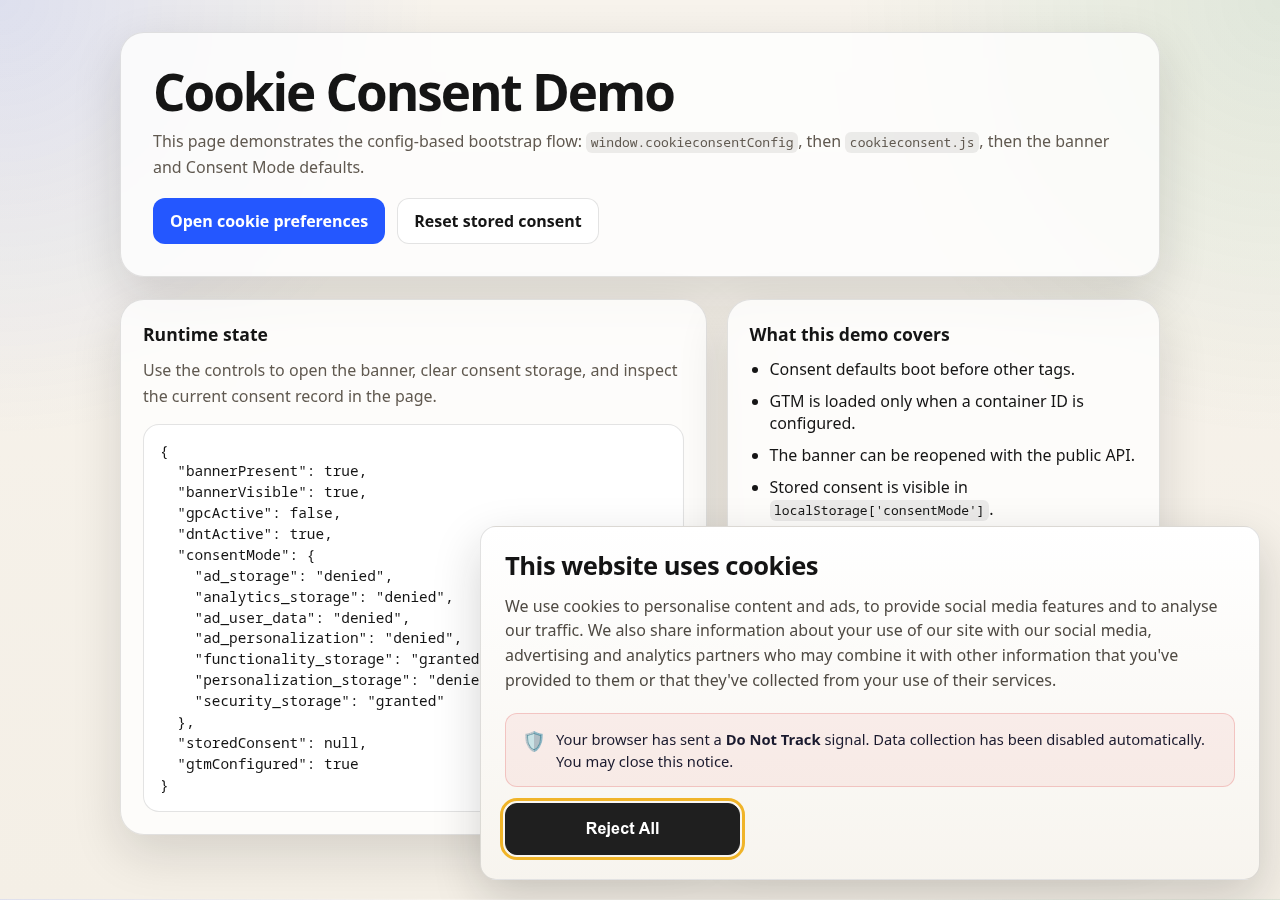
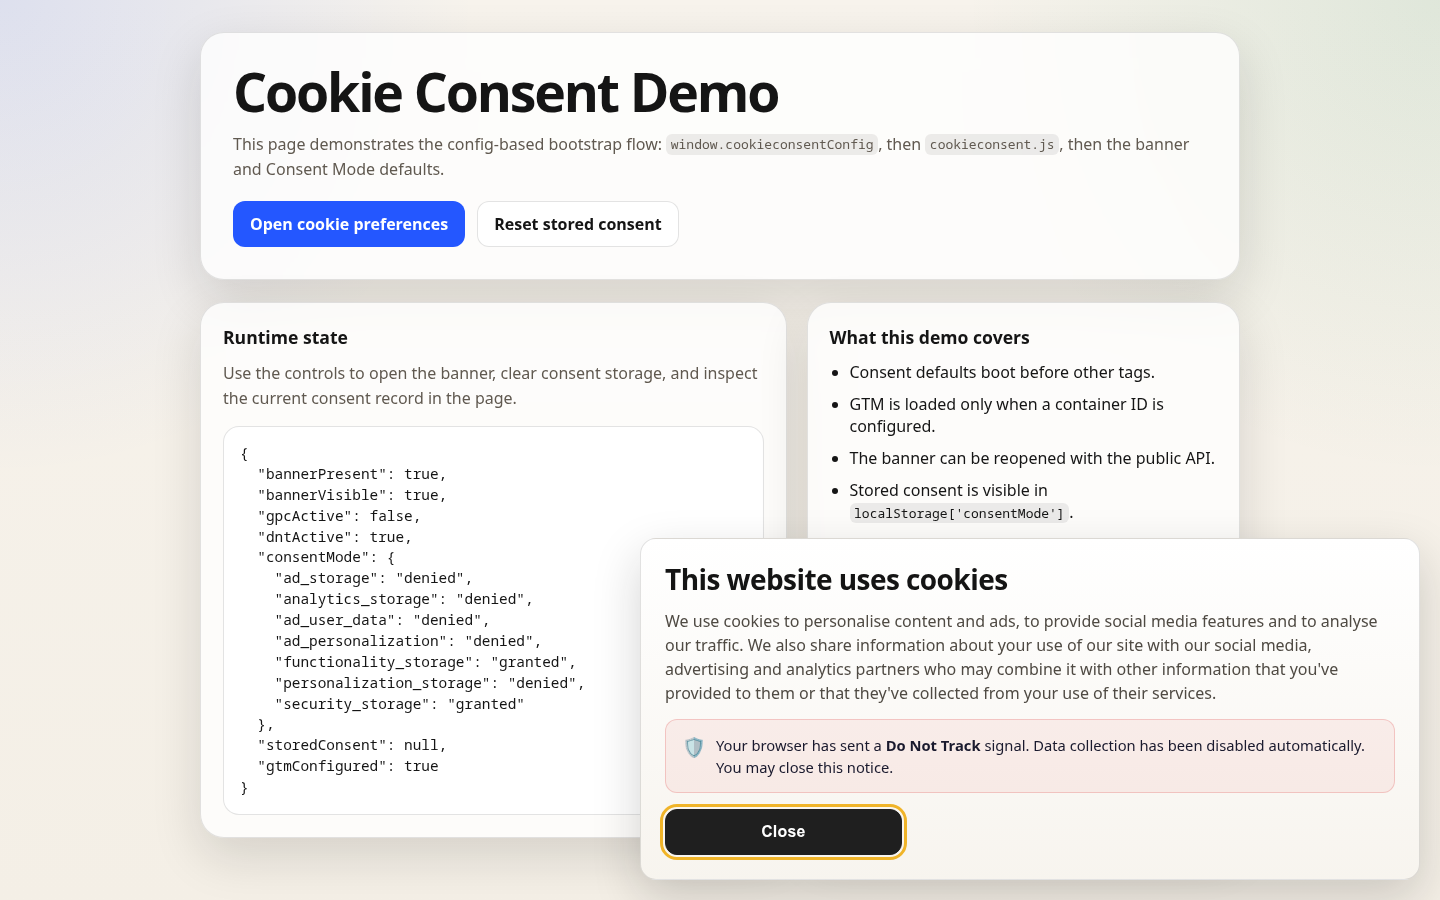
feat: reorder buttons to prefer Accept All, relabel as Close under GPC/DNT
- Reorder banner buttons: Accept All → Accept Selection → Reject All
- Focus Accept All on initial banner open (Close button in GPC/DNT mode)
- Relabel 'Reject All' button to 'Close' when GPC or DNT signal is active
- Update all tests (Playwright + runtime) for new focus and button behavior
- Regenerate README screenshots (sample.png, sample-gpc.png, sample-dnt.png, sample-mobile.png)
- Add scripts/screenshot.mjs for future screenshot regeneration

Changed region(s): [[0.0938, 0.0311, 1.0, 0.9956]]

diff --git a/cookieconsent.js b/cookieconsent.js
@@ -108,9 +108,9 @@ const COOKIE_CONSENT_BANNER_DOM = `
       <span>Your browser has sent a <strong>Do Not Track</strong> signal. Data collection has been disabled automatically. You may close this notice.</span>
     </div>
     <div class="cookie-consent-buttons" role="group" aria-label="Cookie consent actions">
-      <button id="cookie-consent-btn-reject-all" type="button" class="cookie-consent-button btn-grayscale">Reject All</button>
-      <button id="cookie-consent-btn-accept-some" type="button" class="cookie-consent-button btn-outline">Accept Selection</button>
       <button id="cookie-consent-btn-accept-all" type="button" class="cookie-consent-button btn-success">Accept All</button>
+      <button id="cookie-consent-btn-accept-some" type="button" class="cookie-consent-button btn-outline">Accept Selection</button>
+      <button id="cookie-consent-btn-reject-all" type="button" class="cookie-consent-button btn-grayscale">Reject All</button>
     </div>
   </div>
 `;
@@ -511,7 +511,10 @@ function applyPrivacySignalLock(noticeId) {
     input.setAttribute('data-privacy-locked', 'true');
   });
 
-  // Disable Accept All and Accept Selection; only Reject All remains
+  // When a privacy signal is active, relabel the dismiss button
+  cookieConsentElements.rejectAllButton.textContent = 'Close';
+
+  // Disable Accept All and Accept Selection; only Close remains
   cookieConsentElements.acceptAllButton.disabled = true;
   cookieConsentElements.acceptAllButton.setAttribute('aria-disabled', 'true');
   cookieConsentElements.acceptSomeButton.disabled = true;
@@ -606,6 +609,9 @@ function showBanner() {
   } else if (dnt()) {
     applyDntLock();
   } else {
+    // Restore button text if it was changed by a previous privacy signal lock
+    cookieConsentElements.rejectAllButton.textContent = 'Reject All';
+
     const cm = getStoredConsent();
     if (cm && cm.functionality_storage) {
       if (cm.functionality_storage == 'granted') {
@@ -628,7 +634,10 @@ function showBanner() {
   cookieConsentBanner.style.display = 'flex';
   cookieConsentBanner.setAttribute('aria-hidden', 'false');
   window.setTimeout(() => {
-    const focusTarget = cookieConsentElements.rejectAllButton || cookieConsentBanner;
+    // In GPC/DNT mode, Accept All is hidden; focus the Close button instead
+    const focusTarget = (gpc() || dnt())
+      ? cookieConsentElements.rejectAllButton
+      : cookieConsentElements.acceptAllButton;
     if (focusTarget && typeof focusTarget.focus === 'function') {
       focusTarget.focus();
     }
